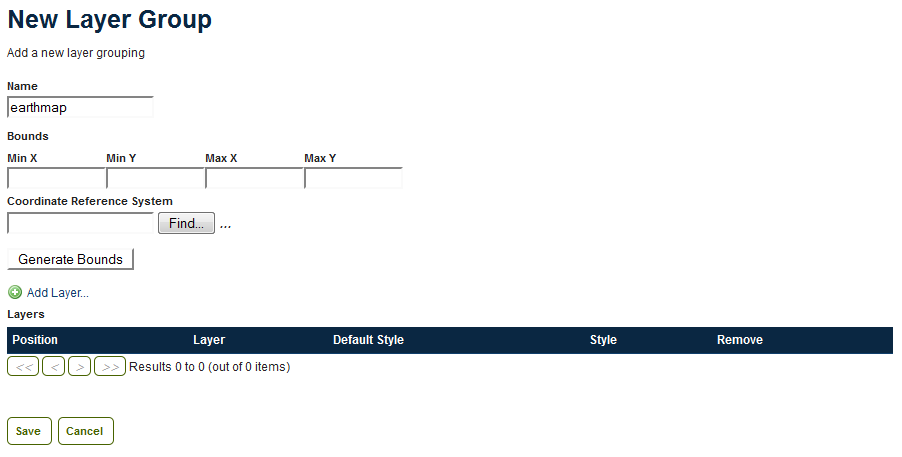
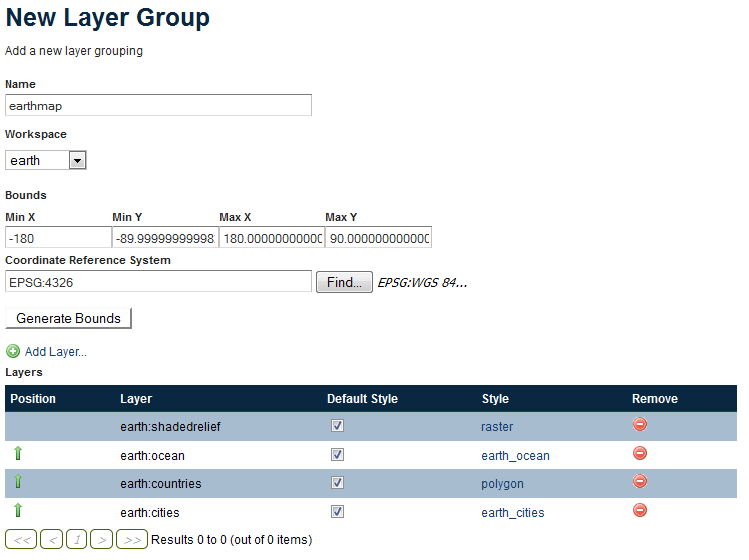
Updated layer groups section

Changed region(s): [[0.0, 0.5514, 1.0, 0.9803], [0.0, 0.337, 0.6142, 0.5208], [0.0, 0.0, 0.3992, 0.3063]]

diff --git a/workshops/geoserver/doc/source/data/layergroup.rst b/workshops/geoserver/doc/source/data/layergroup.rst
@@ -3,69 +3,65 @@
 Creating a layer group
 ======================
 
-A layer group, as its name suggests, is a group of layers that acts as a single layer.  This is useful when creating a "basemap", or other situations when more than one separate layer needs to be requested simultaneously or frequently.  Since layers typically contain only a single type of geometry, using a layer group also allows you to combine data types in one single WMS request.  
+A layer group, as its name suggests, is a group of layers that acts as a single layer. This is useful when creating a "basemap", or other situations when more than one separate layer needs to be requested simultaneously or frequently. Since layers typically contain only a single type of geometry, using a layer group also allows you to combine data types in one single WMS request. 
 
 .. note:: Take care not to get confused between a workspace, which is a notional grouping of layers (think "container"), and a layer group, which is a group of layers for WMS requests (think "image group").
 
-In the previous section, we loaded a few layers.  Now we'll use a layer group to combine them.
+In the previous sections, we loaded a few layers. Now we'll use a layer group to combine them.
 
-#. From the :ref:`geoserver.webadmin` page, click on the :guilabel:`Layer Groups` link, under :guilabel:`Data` on the left side of the page.
+#. Click the :guilabel:`Layer Groups` link, under :guilabel:`Data` on the left side of the page.
 
    .. figure:: img/layergroup_link.png
-      :align: center
 
-      *Click to go to the Layer Groups page*
+      Click to go to the Layer Groups page
 
-#. Click on :guilabel:`Add new layer group` at the top of the page.
+#. Click :guilabel:`Add new layer group` at the top of the page.
 
    .. figure:: img/layergroup_page.png
-      :align: center
 
-      *Layer Groups page*
+      Layer Groups page
 
-#. Enter ``earthmap`` in the :guilabel:`Name` field.  Don't click :guilabel`Save` yet.
+#. Fill out the following form:
 
-   .. figure:: img/layergroup_new.png
-      :align: center
+   #. In the :guilabel:`Name` field, enter :guilabel:`earthmap`.
 
-      *Creating a new layer group*
+   #. In the :guilabel:`Workspace` field, enter :guilabel:`earth`.
 
-#. Now we will add layers to our layer group (skipping over the Bounds and other form fields for now).  Click on the :guilabel:`Add Layer` link.
+   #. Skip the :guilabel:`Bounds` section for now.
 
-#. Select each of the following layers so that they appear in this order:
+   #. Now we will add layers to our layer group. Click the :guilabel:`Add Layer...` link.
+ 
+   #. Select each of the following layers so that they appear in this order:
 
-   * :guilabel:`earth:shadedrelief`
-   * :guilabel:`earth:ocean`
-   * :guilabel:`earth:countries`
-   * :guilabel:`earth:cities`
+      * :guilabel:`earth:shadedrelief`
+      * :guilabel:`earth:ocean`
+      * :guilabel:`earth:countries`
+      * :guilabel:`earth:cities`
 
-   .. figure:: img/layergroup_add.png
-      :align: center
+      .. note:: It will be much easier to use the search box to narrow down the list.
 
-      *Adding a layer to the layer group*
+      Layer order is important. The **top layer in the list will be drawn first, the bottom last**. Make sure to match the order of the above list. Reorder the layers if necessary by clicking on the :guilabel:`Position` arrows for each layer.
 
-   .. note:: To make it easier to find the appropriate layers, type in ``earth`` in the search box to narrow the listing.
+      .. figure:: img/layergroup_layerchooser.png
 
-   Layer order is important.  The **top layer in the list will be drawn first, the bottom last**.  Make sure to match the order of the above list.  Reorder the layers if necessary by clicking on the :guilabel:`Position` arrows for each layer.
+         Choosing the layers to include in the layer group
 
-#. Check the :guilabel:`Default Style` box for all four layers.
+   #. Check the :guilabel:`Default style` box for every layer.
 
-#. Now click the :guilabel:`Generate Bounds` button to determine the bounding box for the entire layer group.  This button will also determine the projection of the layer group, equal to the top layer's projection by default.  If the projection is not found automatically, enter :guilabel:`EPSG:4326`.
+   #. Now go back to the :guilabel:`Bounds` section and click the :guilabel:`Generate Bounds` button. This will determine the bounding box for the entire layer group. This is why we waited to do this until all layers were added to the layer group.
 
-   .. figure:: img/layergroup_complete.png
-      :align: center
+   #. Leave all other areas as their defaults for now. The form should look like this:
 
-      *Completed layer group*
+      .. figure:: img/layergroup_new.png
 
-#. Click :guilabel:`Save` when done.
+         New layer group configuration
+
+#. Scroll down to the bottom of the page and click :guilabel:`Save`.
 
 #. Preview the layer by going to the :guilabel:`Layer Preview`.
 
-   .. note:: Lists in GeoServer are paged at 25 items at a time.  If you can't find the layer, you may need to click the :guilabel:`[2]` or :guilabel:`[>]` buttons.
-
    .. figure:: img/layergroup_openlayers.png
-      :align: center
 
-      *Previewing the layer group*
+      Previewing the layer group
 
-Even though the Layer Importer generated unique styles for each layer, this layer group doesn't look very nice.  The following section will discuss the next important step of making maps: **styling**.
+Even though the Layer Importer generated unique styles for each layer, this layer group doesn't look very nice. The following section will discuss the next important step of making maps: **styling**.

diff --git a/workshops/geoserver/doc/source/data/import.rst b/workshops/geoserver/doc/source/data/import.rst
@@ -36,7 +36,7 @@ Layer Importer
 
       Importer directory form filled out
 
-#. You will see a list of shapefiles contained in that directory. **Make sure to uncheck the ``countries`` and ``shadedrelief`` layers!** Failure to do this will cause GeoServer to try to load a layer with the same name as one already loaded ("``earth:countries``" and ``earth:shadedrelief``), causing an error.
+#. You will see a list of shapefiles contained in that directory. **Make sure to uncheck the ``countries`` and ``shadedrelief`` layers!** Failure to do this will cause GeoServer to try to load a layer with the same name as one already loaded ("``earth:countries``" and ``earth:shadedrelief``). While this won't cause an error, it may cause confusion later on in the workshop.
 
    .. figure:: img/importer_select.png
 
